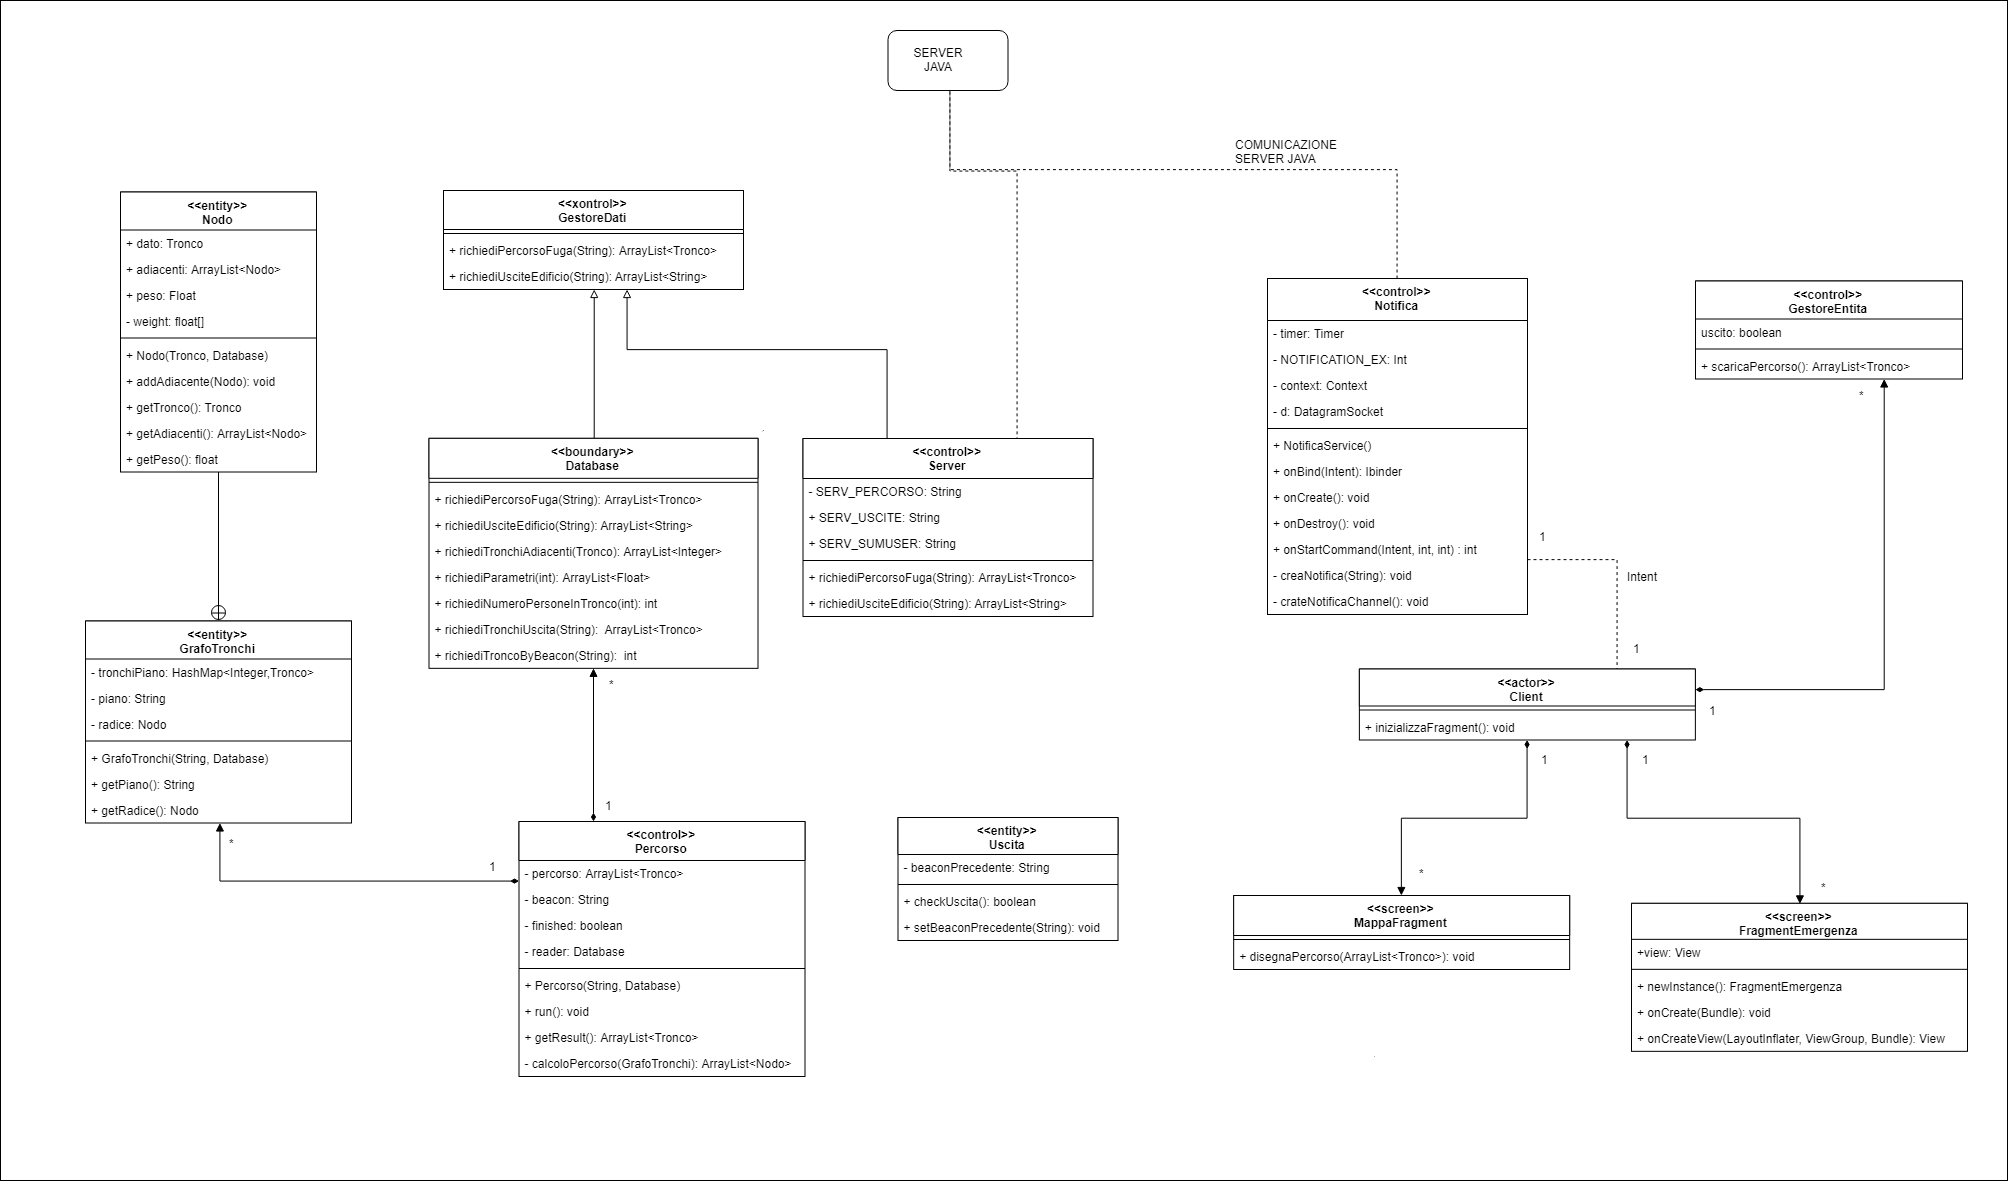
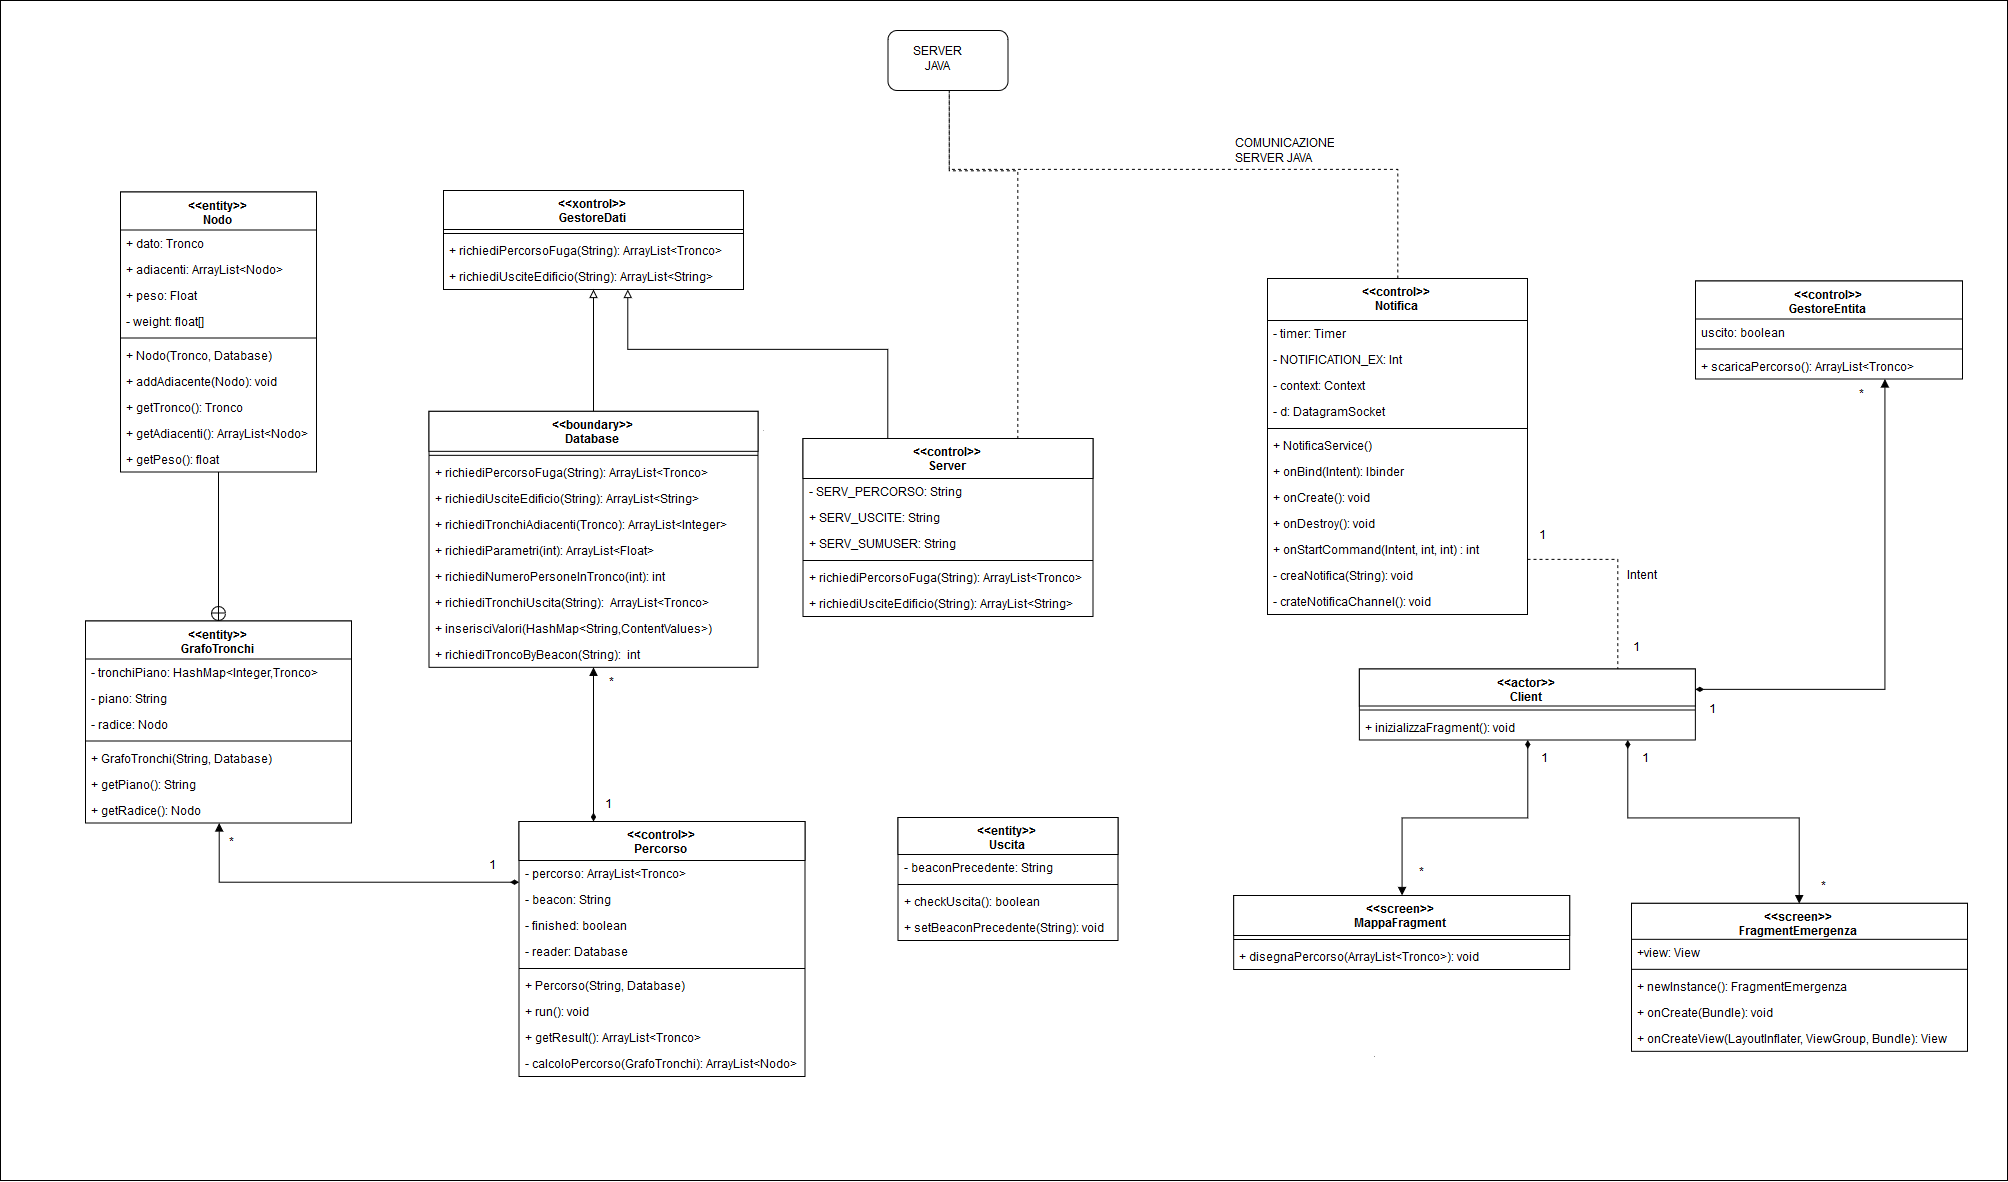
Database su diagrammi aggiornato

diff --git a/AndroidStudioProject/app/src/main/java/it/getout/gestioneconnessioni/Database.java b/AndroidStudioProject/app/src/main/java/it/getout/gestioneconnessioni/Database.java
@@ -199,44 +199,6 @@ public class Database extends GestoreDati {
         else return null;
     }
 
-    public ArrayList<Float> richiediParametri(int tronco){
-        SQLiteDatabase db = connessione.getReadableDatabase();
-
-        ArrayList<Float> tronchi=new ArrayList<>();
-
-        String query =  "SELECT VULN,RV,PF"+
-                " FROM PARAMETRI WHERE TRONCO="+tronco;
-
-        Cursor res = db.rawQuery(query,null);
-        //res.moveToFirst();
-        while(res.moveToNext()) {
-            tronchi.add(res.getFloat(res.getColumnIndex("VULN")));
-            tronchi.add(res.getFloat(res.getColumnIndex("RV")));
-            tronchi.add(res.getFloat(res.getColumnIndex("PF")));
-        }
-
-        res.close();
-
-        return tronchi;
-    }
-
-    public int richiediNumeroPersoneInTronco(int tronco){
-        int persone=0;
-
-        SQLiteDatabase db = connessione.getReadableDatabase();
-        String query = "SELECT SUM(UTENTI) AS UTENTI FROM BEACON WHERE TRONCO = "+tronco;
-
-        Cursor res = db.rawQuery(query,null);
-        //res.moveToFirst();
-
-        persone = res.getInt(res.getColumnIndex("UTENTI"));
-
-        res.close();
-
-        return persone;
-
-    }
-
     // dato un nome del piano restituisce tutte le sue aule
     @Override
     public ArrayList<Aula> richiediAulePiano(String nomePiano) {
